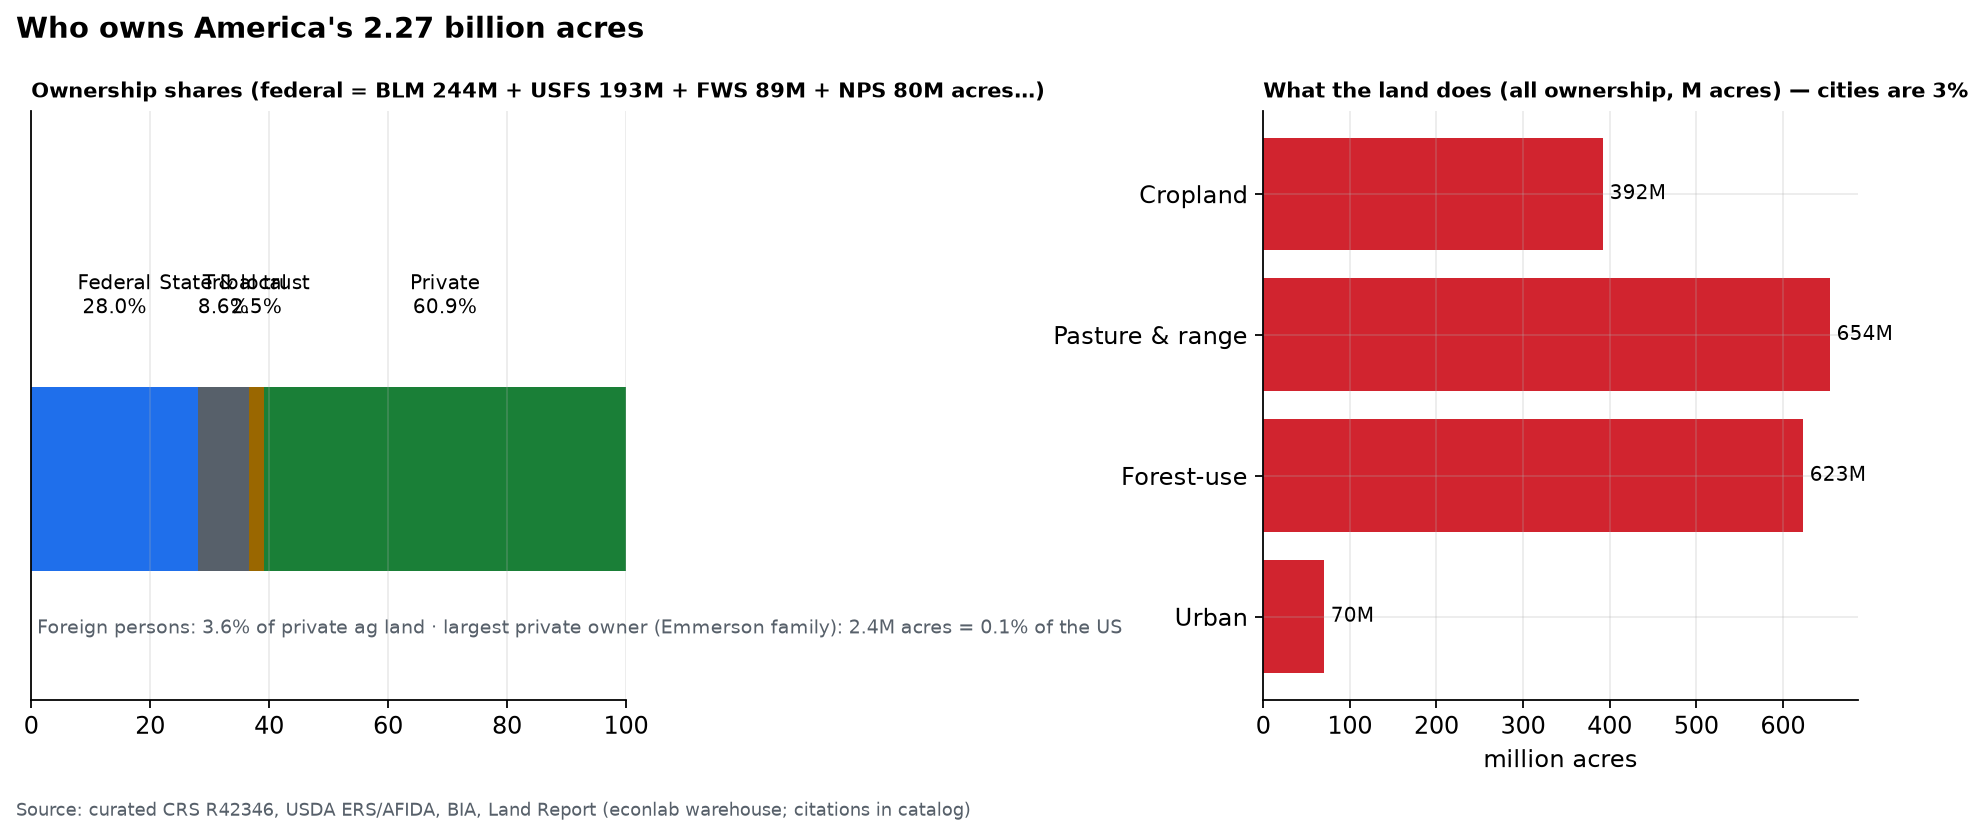
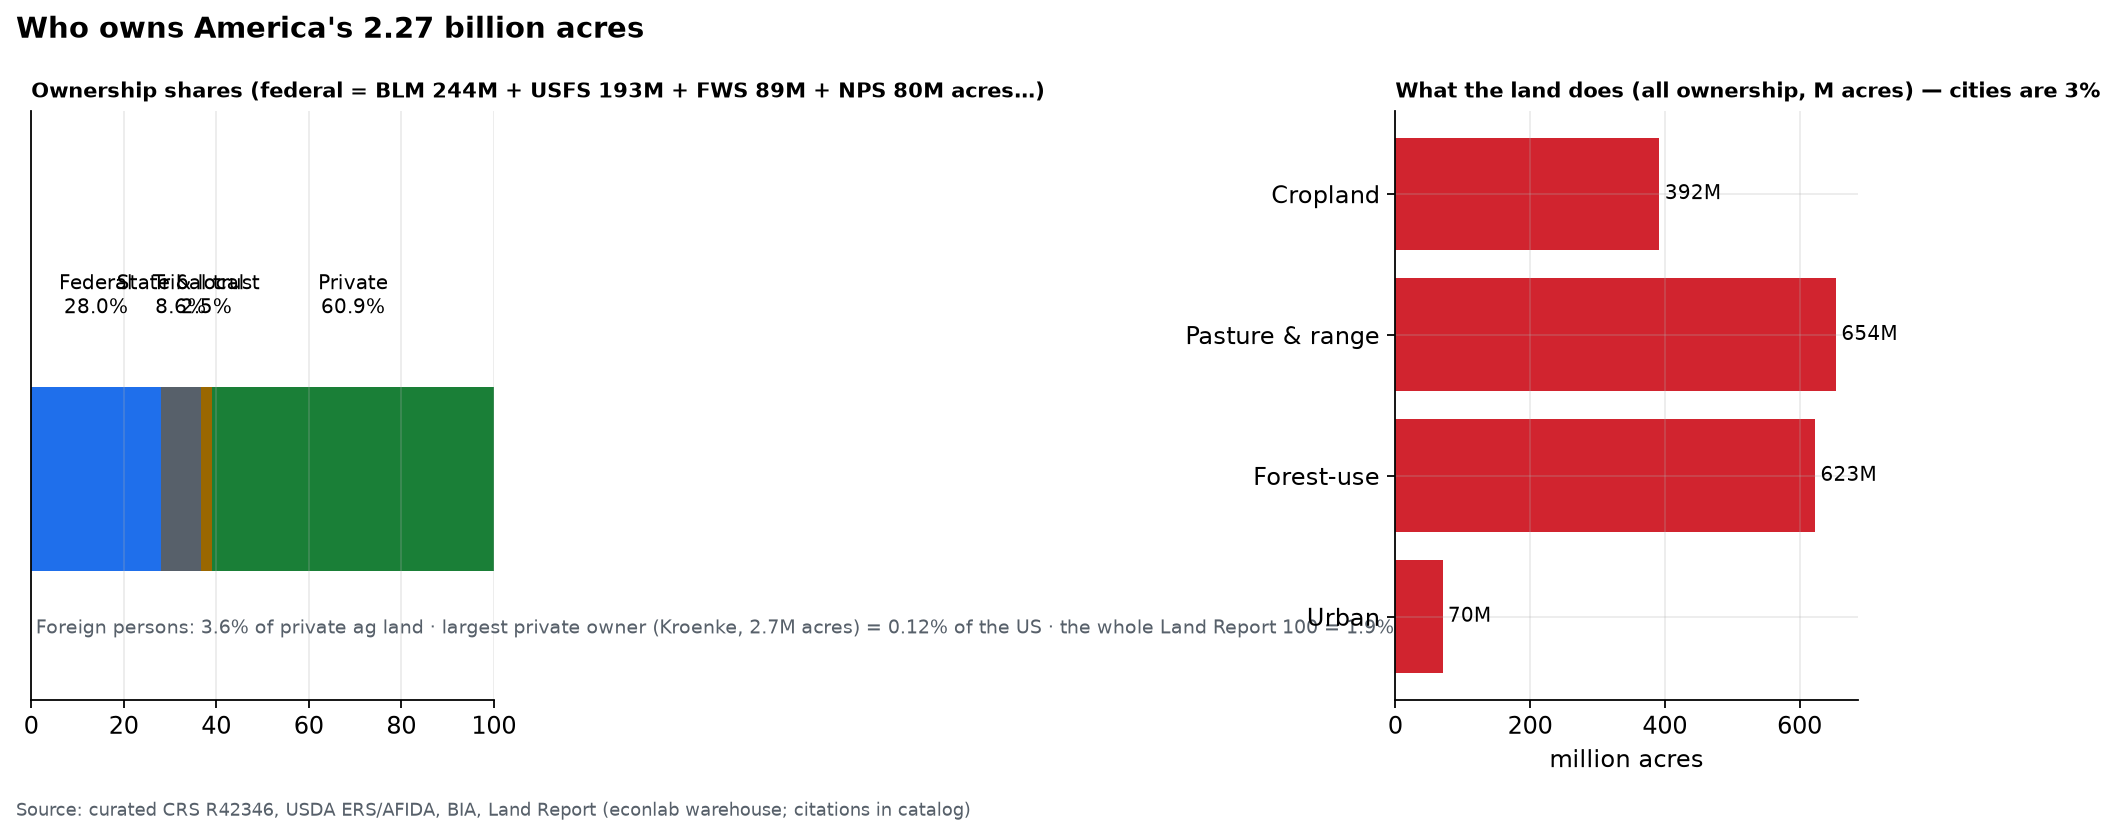
Land Report 100 (2026): full list -> warehouse table + Ch9 appendix
Full 100-owner ranking fetched from landreport.com (2026 edition; Kroenke
took #1 at 2.7M acres after the Dec-2025 Singleton purchase — the sellers
remain at #98). Warehouse table `landowners` (rank/name/acres/edition).
Computed: LR100 total 43.3M acres = 1.9% of the US (3.1% of private land);
federal estate = 15x the whole list; 72/100 entries are family/heir/ranch
dynasties; entry ticket 170k acres, median 261k. Ch9 F1 updated + full
appendix table; figure annotation updated. 78 tests green.

diff --git a/src/econlab/sources/usland.py b/src/econlab/sources/usland.py
@@ -76,13 +76,61 @@ FACTS = [
      "Geoscience Australia / state land registries (leasehold counted as Crown)"),
 ]
 
-# The Land Report 100: largest private US landowners (journalistic estimates)
+# The Land Report 100 (2026 edition, landreport.com/land-report-100, fetched
+# 2026-07-18): largest private US landowners. Journalistic estimates — flagged.
+# Note the tie at 42 (list has two #42s and no #43).
 LANDOWNERS = [
-    (1, "Emmerson family (Sierra Pacific)", 2.41e6, "timber"),
-    (2, "Reed family (Green Diamond)", 2.1e6, "timber"),
-    (3, "Ted Turner", 2.0e6, "ranches"),
-    (4, "Stan Kroenke", 1.7e6, "ranches"),
-    (5, "Irving family", 1.25e6, "timber (Maine)"),
+    (1, "Stan Kroenke", 2_700_000), (2, "Emmerson Family", 2_440_000),
+    (3, "John Malone", 2_200_000), (4, "Ted Turner", 2_000_000),
+    (5, "Reed Family", 1_615_000), (6, "Buck Family", 1_320_000),
+    (7, "Irving Family", 1_267_000), (8, "King Ranch Heirs", 911_000),
+    (9, "Pingree Heirs", 830_000), (10, "Cullen Heirs", 800_000),
+    (11, "Briscoe Family", 738_000), (12, "Wilks Brothers", 652_000),
+    (13, "Thomas Peterffy", 647_000), (14, "Stefan Soloviev", 629_000),
+    (15, "Brad Kelley", 624_000), (16, "Lykes Heirs", 615_000),
+    (17, "Ford Family", 600_000), (18, "Westervelt Heirs", 600_000),
+    (19, "Stimson Family", 552_000), (20, "Martin Family", 550_000),
+    (21, "Jeff Bezos", 462_000), (22, "Zane & Tanya Kiehne", 455_000),
+    (23, "Shannon Kizer", 445_000), (24, "Simplot Family", 443_000),
+    (25, "Fisher Family", 440_000), (26, "Kenedy Ranch", 425_000),
+    (27, "O'Connor Heirs", 410_000), (28, "Skiles Family", 403_000),
+    (29, "Holding Family", 395_000), (30, "Bass Family", 381_000),
+    (31, "Robinson & Freed", 373_000), (32, "Collins Family", 370_000),
+    (33, "Mike Smith", 351_000), (34, "Malone Mitchell 3rd", 349_000),
+    (35, "Killam Family", 341_000), (36, "Barta Family", 340_000),
+    (37, "Hughes Family", 319_000), (38, "Horton Family", 302_000),
+    (39, "Cogdell Family", 284_000), (40, "Fasken Family", 284_000),
+    (41, "Llano Partners", 284_000), (42, "Benjy Griffith III", 279_000),
+    (42, "Kokernot Heirs", 278_000), (44, "Bill Gates", 275_000),
+    (45, "Babbitt Heirs", 275_000), (46, "Jones Family", 275_000),
+    (47, "Lee Family", 275_000), (48, "True Family", 272_000),
+    (49, "Taylor Sheridan", 267_000), (50, "Galt Family", 262_000),
+    (51, "Hadley Family", 260_000), (52, "Sanders Family", 256_000),
+    (53, "Miller Family", 255_000), (54, "Kress Family", 250_000),
+    (55, "Coffee Family", 248_840), (56, "Langdale Family", 248_000),
+    (57, "Angell Family", 244_000), (58, "Riggs Family", 241_803),
+    (59, "Hunt Family", 240_000), (60, "Hearst Family", 238_000),
+    (61, "Brask Family", 230_000), (62, "Gene Taylor", 230_000),
+    (63, "Fanjul Family", 229_592), (64, "Brophy Family", 228_000),
+    (65, "Bidegain Family", 225_000), (66, "Catron Cibola Ranches", 225_000),
+    (67, "Sugg Family", 225_000), (68, "Lyda Family", 223_000),
+    (69, "Bobby Patton & Mark Walter", 223_000), (70, "Bacon Family", 221_805),
+    (71, "Cassidy Heirs", 220_000), (72, "Scott Family", 220_000),
+    (73, "Kennedy Family", 219_663), (74, "Gabrych Family", 218_000),
+    (75, "Bridwell Heirs", 217_785), (76, "East Foundation", 217_000),
+    (77, "Gage Heirs", 213_730), (78, "Russell Gordy", 212_000),
+    (79, "Cunningham Sheep Co.", 211_563), (80, "Reese Family", 208_238),
+    (81, "Boswell Family", 207_000), (82, "Roger Burch", 203_000),
+    (83, "Cocanougher Family", 202_000),
+    (84, "Holland M. Ware Charitable Foundation", 200_000),
+    (85, "Anthony Family", 200_000), (86, "Philip Anschutz", 198_000),
+    (87, "Tianqiao Chen", 198_000), (88, "Stewart & Lynda Resnick", 196_775),
+    (89, "Nunley Family", 191_500), (90, "Taylor Family", 191_000),
+    (91, "Offutt Family", 190_000), (92, "Scotch Families", 190_000),
+    (93, "McLean Heirs", 186_000), (94, "Durrett Family", 182_000),
+    (95, "Haynes Family", 180_000), (96, "Williams Family", 177_000),
+    (97, "JA Ranch Heirs", 171_000), (98, "Singleton Family", 171_000),
+    (99, "Broadbent Family", 170_000), (100, "Irwin Family", 170_000),
 ]
 
 
@@ -109,20 +157,14 @@ def parse() -> tuple[list[Series], pd.DataFrame]:
                 )
             )
 
-    # top private landowners as obs too (entity = rank slug, kind 'other')
-    for rank, name, acres, kind in LANDOWNERS:
-        sid = "usland/top_private_owner_acres"
-        rows.append((sid, f"LANDOWNER_{rank}", 2024, None, float(acres)))
-    series_list.append(
-        Series(
-            series_id="usland/top_private_owner_acres", source=SOURCE,
-            name="Largest private US landowners (acres)",
-            unit="acres", unit_type="physical", frequency="A",
-            description=("Land Report 100 (2024) estimates; entities LANDOWNER_1.. = "
-                         + "; ".join(f"#{r} {n} ({k})" for r, n, _, k in LANDOWNERS)),
-            license="Land Report estimates (journalistic) — flagged",
-            url="https://landreport.com/",
-        )
-    )
+    # full Land Report 100 -> dedicated warehouse table (rank/name/acres)
+    from ..config import TIDY
+
+    lo = pd.DataFrame(LANDOWNERS, columns=["rank", "name", "acres"])
+    lo["edition"] = 2026
+    out = TIDY / SOURCE
+    out.mkdir(parents=True, exist_ok=True)
+    lo.to_parquet(out / "landowners.parquet", index=False)
+
     obs = pd.DataFrame(rows, columns=["series_id", "entity", "year", "date", "value"])
     return series_list, obs

diff --git a/tests/test_sanity.py b/tests/test_sanity.py
@@ -645,8 +645,19 @@ def test_ch9_us_land_stack(con):
     assert s["Private"] > 55
     home = one(con, "SELECT max_by(value,date) FROM obs WHERE series_id='fred/RHORUSQ156N'")
     assert 60 < home < 70                                # ~65.3%
-    emmerson = one(con, "SELECT value FROM obs WHERE series_id='usland/top_private_owner_acres' AND entity='LANDOWNER_1'")
-    assert 2e6 < emmerson < 3e6                          # largest owner ~0.1% of the US
+
+
+def test_ch9_land_report_100(con):
+    n, total, biggest = con.execute(
+        "SELECT count(*), sum(acres), max(acres) FROM landowners"
+    ).fetchone()
+    assert n == 100
+    assert 2.5e6 < biggest < 3.0e6        # Kroenke 2.7M
+    assert 40e6 < total < 47e6            # 43.3M acres = 1.9% of the US
+    assert total < 0.025 * 2.27e9         # the hundred biggest own <2.5% of America
+    dynasties = one(con, "SELECT count(*) FROM landowners WHERE name ILIKE '%family%' "
+                         "OR name ILIKE '%heirs%' OR name ILIKE '%ranch%'")
+    assert dynasties >= 65                # an inheritance ledger (72/100)
 
 
 # ---------- Phase 3: the MCP apparatus ----------

diff --git a/src/econlab/model.py b/src/econlab/model.py
@@ -154,6 +154,13 @@ def build_warehouse() -> Path:
             f"CREATE OR REPLACE TABLE billionaires AS SELECT * FROM read_parquet('{people_pq}')"
         )
 
+    # Land Report 100 (rank, name, acres, edition)
+    lo_pq = TIDY / "usland" / "landowners.parquet"
+    if lo_pq.exists():
+        con.execute(
+            f"CREATE OR REPLACE TABLE landowners AS SELECT * FROM read_parquet('{lo_pq}')"
+        )
+
     # integrity: no orphan series
     orphans = con.execute(
         "SELECT count(DISTINCT o.series_id) FROM obs o LEFT JOIN catalog c USING (series_id) "

diff --git a/src/econlab/analysis/ch09_land.py b/src/econlab/analysis/ch09_land.py
@@ -81,7 +81,7 @@ def fig_us_land() -> None:
                   fontsize=9.5, loc="left")
     ax1.text(1, -0.42,
              "Foreign persons: 3.6% of private ag land · largest private owner "
-             "(Emmerson family): 2.4M acres = 0.1% of the US",
+             "(Kroenke, 2.7M acres) = 0.12% of the US · the whole Land Report 100 = 1.9%",
              fontsize=8.5, color="#57606a")
 
     names = {"cropland": "Cropland", "grassland_pasture": "Pasture & range",

diff --git a/report/09-who-owns-the-land.md b/report/09-who-owns-the-land.md
@@ -19,10 +19,16 @@ citations (CRS, USDA, BIA, national cadastres) rather than inventing.*
 
 Sub-facts, each cited in the catalog: **foreign persons hold 3.6% of private
 agricultural land** (USDA AFIDA 2023, ~46M acres, ~⅓ Canadian — the China
-folklore is <1%). The **largest private landowner** (the Emmerson family,
-2.4M timber acres) holds **0.1% of the country**; the whole Land Report 100
-together holds ~1.5%. American land is concentrated in the *state*, not in
-individuals: the federal estate is ~260× the largest private holding.
+folklore is <1%). The **largest private landowner** (Stan Kroenke, 2.7M
+acres after buying ~1M New Mexico acres from the Singleton heirs in Dec
+2025) holds **0.12% of the country**; the **entire Land Report 100 together
+holds 43.3M acres = 1.9% of the US** (3.1% of private land — see appendix).
+American land is concentrated in the *state*, not in individuals: the
+federal estate alone is **15× the hundred largest private owners combined**.
+And the list is an inheritance ledger: **72 of its 100 entries are families,
+heirs, or ranch estates**, not first-generation buyers; the celebrity
+entrants (Bezos #21, Gates #44, Sheridan #49) sit far below the timber and
+cattle dynasties.
 What the land does: pasture 654M, forest-use 623M, crops 392M acres — and
 **cities, which generate ~90% of GDP, sit on 3%** (70M acres). Housing:
 **65.3% of households own their home** (2026Q1) — the land under houses is
@@ -73,3 +79,63 @@ interiors; the US at 39% government-held is the *low* end of that family.
 - Nominal vs beneficial: Crown land "owned by the King" is a legal fiction
   of sovereignty, not a personal balance sheet; we count control, not title
   ceremony.
+
+
+## Appendix — The Land Report 100 (2026 edition)
+
+*Largest private US landowners; journalistic estimates (landreport.com,
+fetched 2026-07-18; two #42s tied in the source). Warehouse table:
+`landowners`.*
+
+| # | Owner | Acres | # | Owner | Acres |
+|---|---|---|---|---|---|
+| 1 | Stan Kroenke | 2,700,000 | 51 | Hadley Family | 260,000 |
+| 2 | Emmerson Family | 2,440,000 | 52 | Sanders Family | 256,000 |
+| 3 | John Malone | 2,200,000 | 53 | Miller Family | 255,000 |
+| 4 | Ted Turner | 2,000,000 | 54 | Kress Family | 250,000 |
+| 5 | Reed Family | 1,615,000 | 55 | Coffee Family | 248,840 |
+| 6 | Buck Family | 1,320,000 | 56 | Langdale Family | 248,000 |
+| 7 | Irving Family | 1,267,000 | 57 | Angell Family | 244,000 |
+| 8 | King Ranch Heirs | 911,000 | 58 | Riggs Family | 241,803 |
+| 9 | Pingree Heirs | 830,000 | 59 | Hunt Family | 240,000 |
+| 10 | Cullen Heirs | 800,000 | 60 | Hearst Family | 238,000 |
+| 11 | Briscoe Family | 738,000 | 61 | Brask Family | 230,000 |
+| 12 | Wilks Brothers | 652,000 | 62 | Gene Taylor | 230,000 |
+| 13 | Thomas Peterffy | 647,000 | 63 | Fanjul Family | 229,592 |
+| 14 | Stefan Soloviev | 629,000 | 64 | Brophy Family | 228,000 |
+| 15 | Brad Kelley | 624,000 | 65 | Bidegain Family | 225,000 |
+| 16 | Lykes Heirs | 615,000 | 66 | Catron Cibola Ranches | 225,000 |
+| 17 | Ford Family | 600,000 | 67 | Sugg Family | 225,000 |
+| 18 | Westervelt Heirs | 600,000 | 68 | Lyda Family | 223,000 |
+| 19 | Stimson Family | 552,000 | 69 | Bobby Patton & Mark Walter | 223,000 |
+| 20 | Martin Family | 550,000 | 70 | Bacon Family | 221,805 |
+| 21 | Jeff Bezos | 462,000 | 71 | Cassidy Heirs | 220,000 |
+| 22 | Zane & Tanya Kiehne | 455,000 | 72 | Scott Family | 220,000 |
+| 23 | Shannon Kizer | 445,000 | 73 | Kennedy Family | 219,663 |
+| 24 | Simplot Family | 443,000 | 74 | Gabrych Family | 218,000 |
+| 25 | Fisher Family | 440,000 | 75 | Bridwell Heirs | 217,785 |
+| 26 | Kenedy Ranch | 425,000 | 76 | East Foundation | 217,000 |
+| 27 | O'Connor Heirs | 410,000 | 77 | Gage Heirs | 213,730 |
+| 28 | Skiles Family | 403,000 | 78 | Russell Gordy | 212,000 |
+| 29 | Holding Family | 395,000 | 79 | Cunningham Sheep Co. | 211,563 |
+| 30 | Bass Family | 381,000 | 80 | Reese Family | 208,238 |
+| 31 | Robinson & Freed | 373,000 | 81 | Boswell Family | 207,000 |
+| 32 | Collins Family | 370,000 | 82 | Roger Burch | 203,000 |
+| 33 | Mike Smith | 351,000 | 83 | Cocanougher Family | 202,000 |
+| 34 | Malone Mitchell 3rd | 349,000 | 84 | Holland M. Ware Charitable Foundation | 200,000 |
+| 35 | Killam Family | 341,000 | 85 | Anthony Family | 200,000 |
+| 36 | Barta Family | 340,000 | 86 | Philip Anschutz | 198,000 |
+| 37 | Hughes Family | 319,000 | 87 | Tianqiao Chen | 198,000 |
+| 38 | Horton Family | 302,000 | 88 | Stewart & Lynda Resnick | 196,775 |
+| 39 | Cogdell Family | 284,000 | 89 | Nunley Family | 191,500 |
+| 40 | Fasken Family | 284,000 | 90 | Taylor Family | 191,000 |
+| 41 | Llano Partners | 284,000 | 91 | Offutt Family | 190,000 |
+| 42 | Benjy Griffith III | 279,000 | 92 | Scotch Families | 190,000 |
+| 42 | Kokernot Heirs | 278,000 | 93 | McLean Heirs | 186,000 |
+| 44 | Bill Gates | 275,000 | 94 | Durrett Family | 182,000 |
+| 45 | Babbitt Heirs | 275,000 | 95 | Haynes Family | 180,000 |
+| 46 | Jones Family | 275,000 | 96 | Williams Family | 177,000 |
+| 47 | Lee Family | 275,000 | 97 | JA Ranch Heirs | 171,000 |
+| 48 | True Family | 272,000 | 98 | Singleton Family | 171,000 |
+| 49 | Taylor Sheridan | 267,000 | 99 | Broadbent Family | 170,000 |
+| 50 | Galt Family | 262,000 | 100 | Irwin Family | 170,000 |